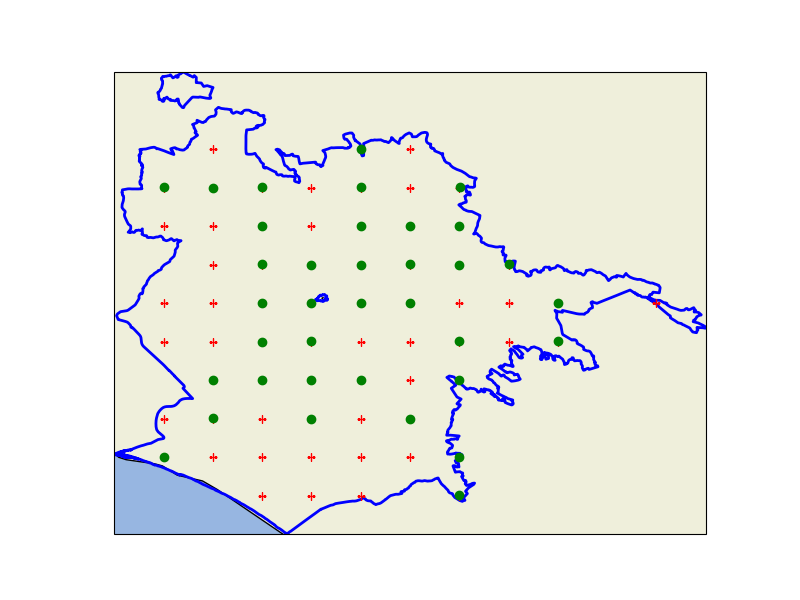
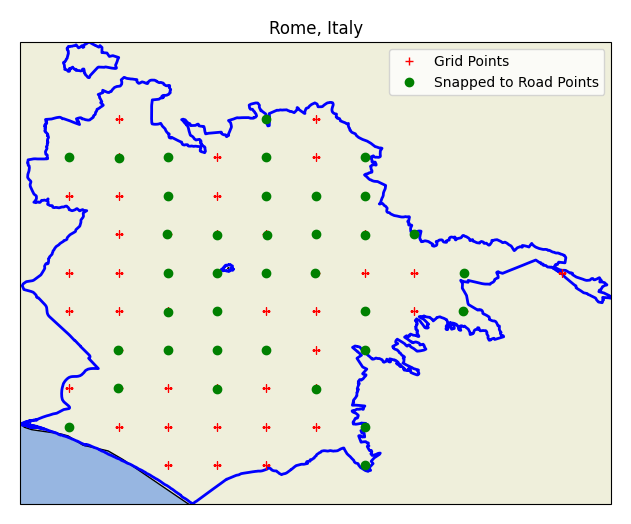
Added legend, title, to plots

diff --git a/src/turn_sequence/analysis.py b/src/turn_sequence/analysis.py
@@ -82,16 +82,20 @@ def plot_place_points_from_df(name: str, points_df: pd.DataFrame, point_columns:
     ax.set_extent(bounds, crs=ccrs.PlateCarree())
 
     # plot the grid points
-    ax.plot(points_df[point_columns.grid_lon], points_df[point_columns.grid_lat], 'r+', transform=ccrs.PlateCarree())
+    ax.plot(points_df[point_columns.grid_lon], points_df[point_columns.grid_lat], 'r+',
+            label='Grid Points', transform=ccrs.PlateCarree())
 
     # plot the snapped points
-    ax.plot(points_df[point_columns.snapped_lon], points_df[point_columns.snapped_lat], 'go', transform=ccrs.PlateCarree())
+    ax.plot(points_df[point_columns.snapped_lon], points_df[point_columns.snapped_lat], 'go',
+            label='Snapped to Road Points', transform=ccrs.PlateCarree())
 
     # plot the place polygon
     polygon = gdf.loc[0,'geometry']
     ax.add_geometries([polygon], crs=ccrs.PlateCarree(), edgecolor='blue', facecolor='none', linewidth=2)
 
-    plt.savefig(plot_path)
+    plt.title(name)
+    plt.legend()
+    plt.savefig(plot_path, bbox_inches='tight', pad_inches=0.2)
     plt.close()
 
 def main():

diff --git a/src/turn_sequence/map_model.py b/src/turn_sequence/map_model.py
@@ -274,7 +274,6 @@ class MapModel:
             self.directions = None
 
 def main():
-    #TODO: Move this to tests
     from pathlib import Path
     import os
     from dotenv import load_dotenv

diff --git a/README.md b/README.md
@@ -2,19 +2,13 @@
 
 ## Summary
 
-Uses Google Geocode API and Routes API to analyze the frequency of left-right and right-left turns vs. left-left and right-right turns.
+Analyze the frequency of taking alternating direction turns while driving vs. taking multiple of the same direction turns in a row using Google Geocode API and Routes API.
 
-## Hypothesis
+## Which Lane to Turn In?
 
-While driving, if there are multiple lanes to take a turn, while lane should you choose?
+If there are multiple lanes to take a turn, while lane should you choose?
 
-The hypothesis is choosing the right-most lane when taking a left turn, or the left-most lane when taking a right turn is most otimal.
-
-This is because when traveling, each turn is an overcorrection towards your destination.
-
-For a simple model, if we are traveling on a grid, then any optimal path will alternate between left and right turns.
-
-In practice, we still make multiple of the same direction turns in a row. But how often? This project aims to answer that question.
+The hypothesis is choosing the right-most lane when taking a left turn, or the left-most lane when taking a right turn is optimal on average. This is because when traveling, each turn is an overcorrection towards your destination. For a simple model, if we are traveling on a grid, then any optimal path will alternate between left and right turns. In practice, we still make multiple of the same direction turns in a row. But how often? This project aims to answer that question.
 
 ### Approach
 
@@ -28,9 +22,16 @@ To answer this question, I decided to sample paths between two destinations in a
 - Snap each grid point to the road with the Google Roads API.
     - If a point does not have a road nearby it is tossed. This is useful for city polygons like Boston's which have a large portion in the ocean.
 - Loop over each pair of snapped points. If they are different, calculate the route betweenn them with the Google Routes API.
-    - The number of calls to Google Routes is $O(\text{granularity}^4)$.
+    - The number of calls to Google Routes is $O(\text{granularity}^4)$. Therefore the granularity should be chosen small, e.g. less than 10.
 - Process the ouptut directions into a sequence of left and right turns.
 
+## Results
+
+### Visualization
+
+To ensure we only calculate routes between points on roads, and not bodies of water for example, each grid point is snapped to the road using the Google Roads API. Points that are snapped to a road are shown as green. Points that were not able to snap to a road are in red. More plots are availible in the `plots/` directory.
+
+![Boston MA](plots/boston_massachusetts_usa.png)
 
 ## Installation
 
